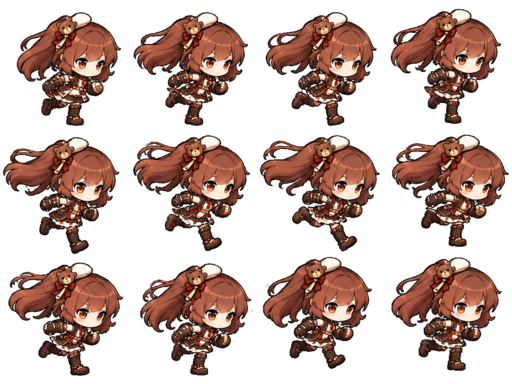
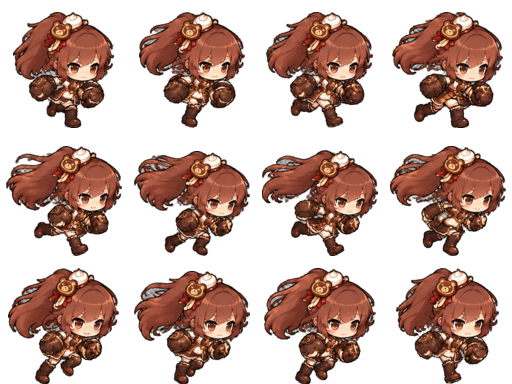
Redesign Mint and Chocolate from lore

diff --git a/game.js b/game.js
@@ -27,9 +27,13 @@ const BALANCE = {
 };
 
 /* ---- เวอร์ชัน + บันทึกอัปเดต (build-www ดึงไปทำ version.json ให้หน้า download) ---- */
-const GAME_VERSION = '2.8.3';
+const GAME_VERSION = '2.8.4';
 const RELEASES_URL = 'https://github.com/hardza1230/Survival-like-Mobile-Game/releases/download/latest/mochi-mayhem-debug.apk';
 const CHANGELOG = [
+  { v:'2.8.4', date:'2026-09-10', title:'Lore-Bound Mint & Chocolate', items:[
+    'ออกแบบ Mint ใหม่เป็นผู้พิทักษ์ลมเย็น ใช้โล่ใบมิ้นต์ เกราะน้ำแข็ง และท่าร่ายเขตคุ้มกันตามบทบาทสายแทงค์',
+    'ออกแบบ Chocolate ใหม่เป็นจอมพลังตราหมี ใช้ถุงมือช็อกโกแลตหนักและท่าทุบวงแผ่นดินไหวตาม Unique Skill',
+    'สร้าง action sheet 8 ท่าและ run cycle 12 เฟรมใหม่ทั้งสองตัว พร้อม alpha โปร่งใสและ silhouette ที่อ่านง่ายบนมือถือ' ] },
   { v:'2.8.3', date:'2026-09-10', title:'12-Frame Fighter Standard', items:[
     'ปรับ run cycle ของ Momo เป็น 12 เฟรมที่กระชับและอ่านท่าทางชัดขึ้นสำหรับเกม survival-like',
     'สร้าง Mint และ Chocolate ใหม่โดยยึดสัดส่วน เส้น และรูปแบบชีตของ Momo Strawberry เป็นมาตรฐานเดียวกัน',

diff --git a/ART_BIBLE.md b/ART_BIBLE.md
@@ -123,6 +123,8 @@
 มี 3 ตัว เล่นได้ แต่ละตัว **หน้าตา สี บุคลิก และอัลติ (ท่าไม้ตาย) ต่างกันชัด** ทุกตัวเป็น **โมจิทรงกลม** แต่มีท็อปปิ้ง/สีประจำตัว
 
 > **สเปกไฟล์:** สไปรต์ชีต (spritesheet strip) แนวนอน **8 เฟรม เฟรมละ 128×128 px** พื้นโปร่งใส · ตัวละครกึ่งกลางเฟรม เว้นขอบให้เผื่อการ "ยืด/ย่อ" (squash & stretch) ตอนเล่น · หันหน้าเข้ากล้อง (front-facing ¾)
+>
+> **สเปกวิ่ง:** run atlas **4 คอลัมน์ × 3 แถว รวม 12 เฟรม เฟรมละ 128×128 px** · อ่านซ้ายไปขวา บนลงล่าง · ยึดฐานเท้าและขนาดตัวคงที่ · เฟรม 12 ต้องวนกลับเฟรม 1 ได้ลื่น
 
 ### 4.1 ตารางเฟรมมาตรฐาน (CF — Character Frames) — ทุกตัวใช้ index เดียวกัน
 | Index | ชื่อท่า | ใช้ตอน | อารมณ์/รายละเอียด |
@@ -147,16 +149,18 @@
 - ค่าเริ่มต้น: สมดุลทุกด้าน
 
 **🌿 มินต์ (Mint)** — *สายแทงค์ / อึดเย็น*
-- สี: ตัวเขียวมิ้นต์ไล่เฉด `#EAFFF5 → #B6F0D6` ขอบเขียว `#57C99A` · ท็อปปิ้ง = **ใบมิ้นต์** · แก้มเขียวอ่อน
-- บุคลิก: ใจเย็น สุขุม เหมือนพี่ใหญ่ที่คอยปกป้อง ตานิ่งอบอุ่น
-- อัลติ: ❄ **Brain Freeze** — แช่แข็งศัตรูทั้งวง
+- สี: ผมเขียวมิ้นต์ไล่เฉด `#EAFFF5 → #B6F0D6` ขอบเขียวเข้ม `#57C99A` · ตาฟ้าเขียว · ตราประจำตัว = **ช่อใบมิ้นต์**
+- ซิลูเอต: ผู้พิทักษ์ฐานมั่นคง สวมโค้ตขาว-มิ้นต์ เกราะไหล่น้ำแข็งมน และ **โล่ทรงใบมิ้นต์** ที่ปลายแขน — ต้องแยกจาก Momo ได้แม้มองเป็นเงาทึบ
+- บุคลิก: ใจเย็น สุขุม เหมือนพี่ใหญ่ที่คอยปกป้อง การวิ่งควบคุมจังหวะและมั่นคง ไม่ใช่นักวิ่งสายเบา
+- Unique: 🌿 **เขตลมหายใจมินต์ (Mint Sanctuary)** — ปล่อยวงลมเย็น แช่แข็งฝูง และคุ้มกันตนเองชั่วครู่
 - โบนัส: HP +30 (อึดกว่าเพื่อน)
 
 **🍫 โกโก้ (Cocoa)** — *สายจอมพลัง / เปราะแต่แรง*
-- สี: ตัวช็อกโกแลตไล่เฉด `#E6C39C → #A9744A` ขอบเข้ม `#6B4632` · ท็อปปิ้ง = **ลายวนช็อกโกแลต/ครีม** · แก้มโอลด์โรส
-- บุคลิก: มั่นใจ เท่ ซ่าส์นิด ๆ ตาคม (แต่ยังน่ารัก)
-- อัลติ: 🕳 **Cocoa Vortex** — หลุมดำดูดศัตรูมารวมแล้วระเบิด
-- โบนัส: ดาเมจ +10%
+- สี: ผมและเกราะช็อกโกแลตไล่เฉด `#E6C39C → #A9744A` ขอบเข้ม `#6B4632` · ตาน้ำตาลอุ่น · ตราประจำตัว = **ครีมวนและตราหมี**
+- ซิลูเอต: ฐานกว้างและหนักกว่าตัวอื่น ใช้ **ถุงมือช็อกโกแลตทรงกลมขนาดใหญ่** คู่กับเกราะขนมอบสีน้ำตาล-ครีม — ห้ามกลายเป็นชุดเชฟทั่วไป
+- บุคลิก: มั่นใจ เท่ ซ่าส์นิด ๆ ตาคมแต่ยังน่ารัก การวิ่งมีแรงส่งและน้ำหนักของหมัด/ผมตามหลังหนึ่งจังหวะ
+- Unique: 🐻 **ตราหมีโกโก้สะเทือน (Bear Quake)** — ประทับตราหมีแล้วทุบคลื่นช็อกโกแลตวงกว้างบดขยี้ฝูง
+- โบนัส: ดาเมจ +12%
 
 > **ออร่าใต้ตัวละคร:** วงเรืองแสงจาง ๆ สีประจำตัว (momo=ชมพู, mint=ฟ้า, cocoa=ม่วง) ปรากฏใต้เท้าตอนเล่น — ถ้าทำเป็นเลเยอร์แยกได้ยิ่งดี
 

diff --git a/CLAUDE.md b/CLAUDE.md
@@ -55,7 +55,8 @@
   · ต้องเปิด Pages ครั้งแรก: Settings→Pages→Source: GitHub Actions
   · **หมายเหตุ:** เพราะ server.url ชี้ Pages → APK ตัวใหม่ต้อง build หลังตั้ง Pages (ตัว build แรกสุดยังเป็นออฟไลน์)
 
-## 4. สถานะปัจจุบัน (อัปเดตล่าสุด: v2.8.3 12-Frame Fighter Standard)
+## 4. สถานะปัจจุบัน (อัปเดตล่าสุด: v2.8.4 Lore-Bound Mint & Chocolate)
+- **v2.8.4:** รีดีไซน์ Mint เป็นผู้พิทักษ์ลมเย็นที่มีโล่ใบมิ้นต์/เกราะน้ำแข็ง และ Chocolate เป็นจอมพลังถุงมือหนัก/ตราหมี · สร้าง action sheet 8 ท่า + run atlas 12 เฟรมใหม่ทั้งคู่ พร้อม alpha โปร่งใสและสัดส่วนอ่านง่ายบนมือถือ
 - **v2.8.3:** ใช้ Momo Strawberry เป็นต้นแบบสัดส่วนและงานเส้นของ Mint/Chocolate · ตัวละครทั้งสามมี run atlas 4×3 รวม 12 เฟรม เฟรมละ 128px เล่นที่ 16 FPS · ขนาดแสดงผลเท่ากันและสลับกลับ action sheet สำหรับท่ายืน/Dash/เจ็บ/ใช้สกิล/KO
 - **v2.8.2:** เปลี่ยน `char_momo_run_sheet.png` เป็น atlas 5×5 ขนาด 640×640 (25 เฟรมจริง เฟรมละ 128px) · เล่นเฉพาะตอนเคลื่อนที่ที่ 25 FPS · ท่า action เดิมยังสลับกลับไปใช้ `char_momo_fighter_sheet.png`
 - **v2.8.1:** เลเวลอัพเลือก 1 จาก 4 โดยการ์ด responsive ยังอ่านข้อความครบ · ลดภาพ Momo ลง 15% (คง hitbox เดิม) · เพิ่ม `char_momo_run_sheet.png` เป็น run cycle 8 เฟรมที่ 12 fps และสลับกลับชีต action เดิมเมื่อยืน/Dash/เจ็บ/KO
